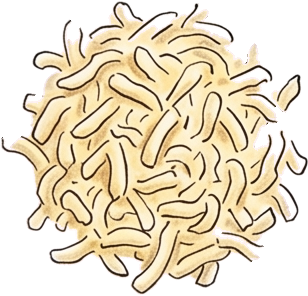
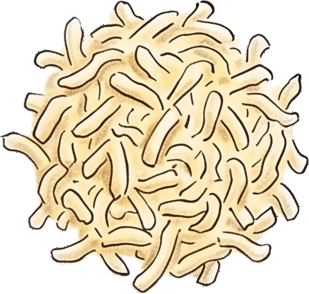
feat: cut held ingredients from the hand-isolated transparent sheet
Switch the held ingredient cursors to the hand-isolated placement sheet, cropping each piece by box from its own transparency and recoloring soft edge pixels from their nearest opaque neighbor so no white fringe shows.

diff --git a/tools/art/extract.py b/tools/art/extract.py
@@ -68,8 +68,8 @@ SAUCE_TEXTURE_START = (256, 192)
 SAUCE_TEXTURE_PERIOD = (512, 384)
 SAUCE_TEXTURE_BLEND = 64
 
-# Held ingredient cursors: one sheet of pieces drawn to scale with each other, cut out by box (source px) with loose bits kept
-HELD_SOURCE = 'pizza_placement_ingredients.jpeg'
+# Held ingredient cursors: one sheet of pieces drawn to scale with each other, already on transparency, cut out by box (source px)
+HELD_SOURCE = 'pizza_placement_ingredients.png'
 HELD_PIECES = {'held_sauce': (190, 730, 520, 1060), 'held_cheese': (620, 730, 975, 1065)}
 
 
@@ -231,6 +231,14 @@ def dough_pieces(record):
     )
 
 
+def bleed(pixels):
+    """Recolor every pixel short of opaque from its nearest opaque one, so soft edges carry no background fringe."""
+    _, (iy, ix) = ndimage.distance_transform_edt(pixels[..., 3] < 255, return_indices=True)
+    out = pixels[iy, ix]
+    out[..., 3] = pixels[..., 3]
+    return out
+
+
 def seamless_period(img, axis, start, period, blend):
     """One period along axis, its last blend px faded into the px just before start so it wraps smoothly."""
     tile = np.take(img, range(start, start + period), axis).copy()
@@ -374,11 +382,9 @@ def main():
     sauce_texture()
 
     # Held ingredient cursors: not placed in the layout, kept at sheet scale
-    img = load(HELD_SOURCE)
-    paper = estimate_paper(img)
-    fg = foreground(img, paper, use_chroma=True)
+    sheet = bleed(np.asarray(Image.open(ART / HELD_SOURCE).convert('RGBA')))
     for name, box in HELD_PIECES.items():
-        save(name, cutout(img, paper, in_box(fg, box)), 1)
+        save(name, np.where(in_box(np.ones(sheet.shape[:2], bool), box)[..., None], sheet, 0).astype(np.uint8), 1)
         record(name, f'{name}.png')
 
     body = json.dumps(rects, indent=2)
